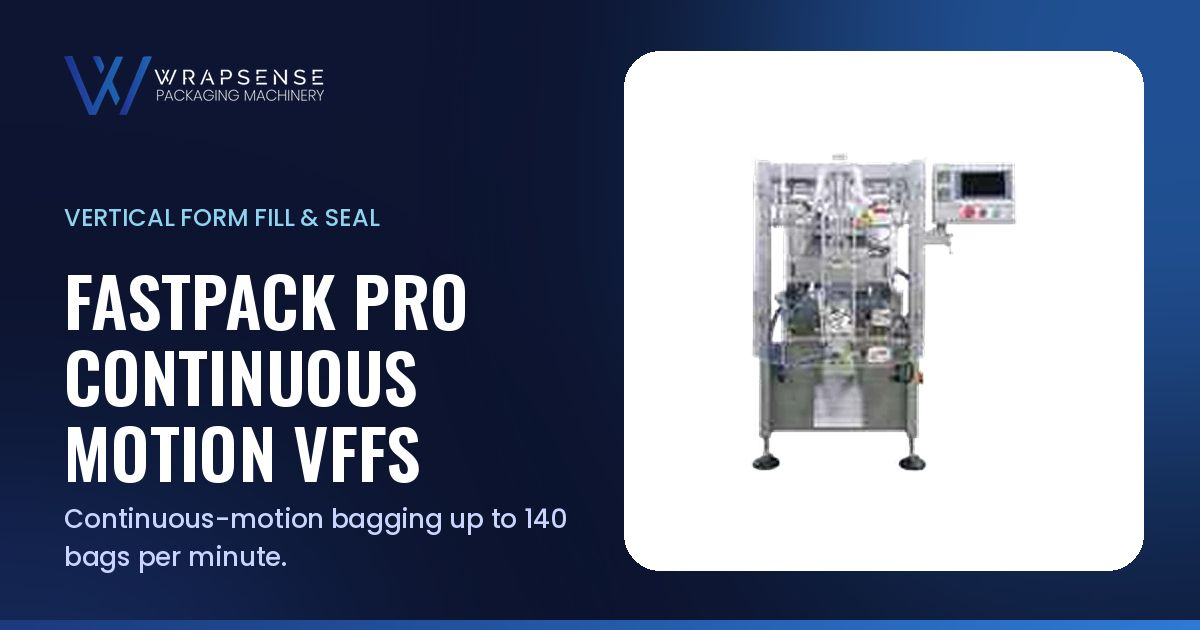
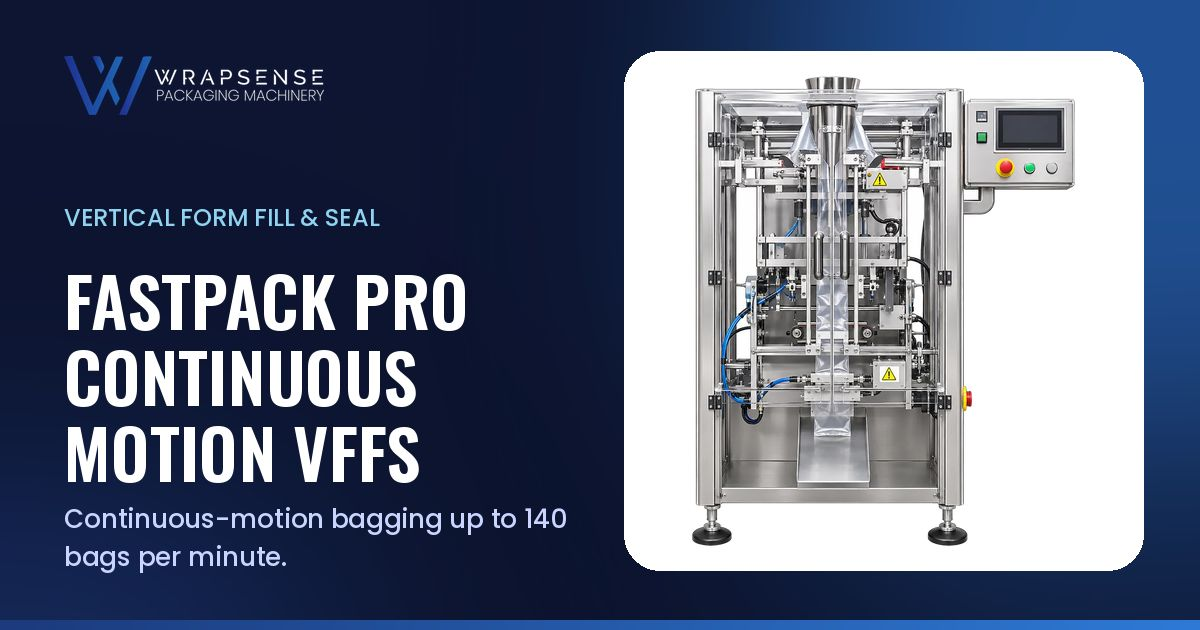
FastPack Pro: new render; blurry catalog shots removed
- New render cut out from white (background flood from the edges + the gap between the feet), 896x1100
  WebP with alpha, 99 KB, as products/fastpack-pro.webp; 12 pages update
- Removed the two blurry low-res catalog crops (fastpack-pro-430000hs, -530000hs): main image replaced,
  the 530000hs gallery shot dropped; files deleted and dropped from the catalog extraction script
- OG image regenerated; manifest updated

Claude-Session: https://claude.ai/code/session_01QFn2KCFGMPNr5c9DCf1rvZ

Changed region(s): [[0.555, 0.1206, 0.8942, 0.8746]]

diff --git a/tools/extract-catalog-images.py b/tools/extract-catalog-images.py
@@ -10,8 +10,7 @@ pdf = sys.argv[1]
 # catalog image index -> (output folder, name, kind)
 # kind: cut = transparent machine/package cutout, photo = rectangular photo
 MAP = {
-  75:('products','fastpack-line','cut'), 77:('products','fastpack-pro-430000hs','cut'),
-  79:('products','fastpack-pro-530000hs','cut'), 83:('products','fastpack-43000','cut'),
+  75:('products','fastpack-line','cut'), 83:('products','fastpack-43000','cut'),
   81:('products','fastpack-63000','cut'),
   89:('products','quickstick-eco','cut'), 91:('products','quickstick-pro','cut'), 93:('products','quickstick-pro-xl','cut'),
   103:('products','rapidbagger-compact','cut'), 105:('products','rapidbagger-inline','cut'),
